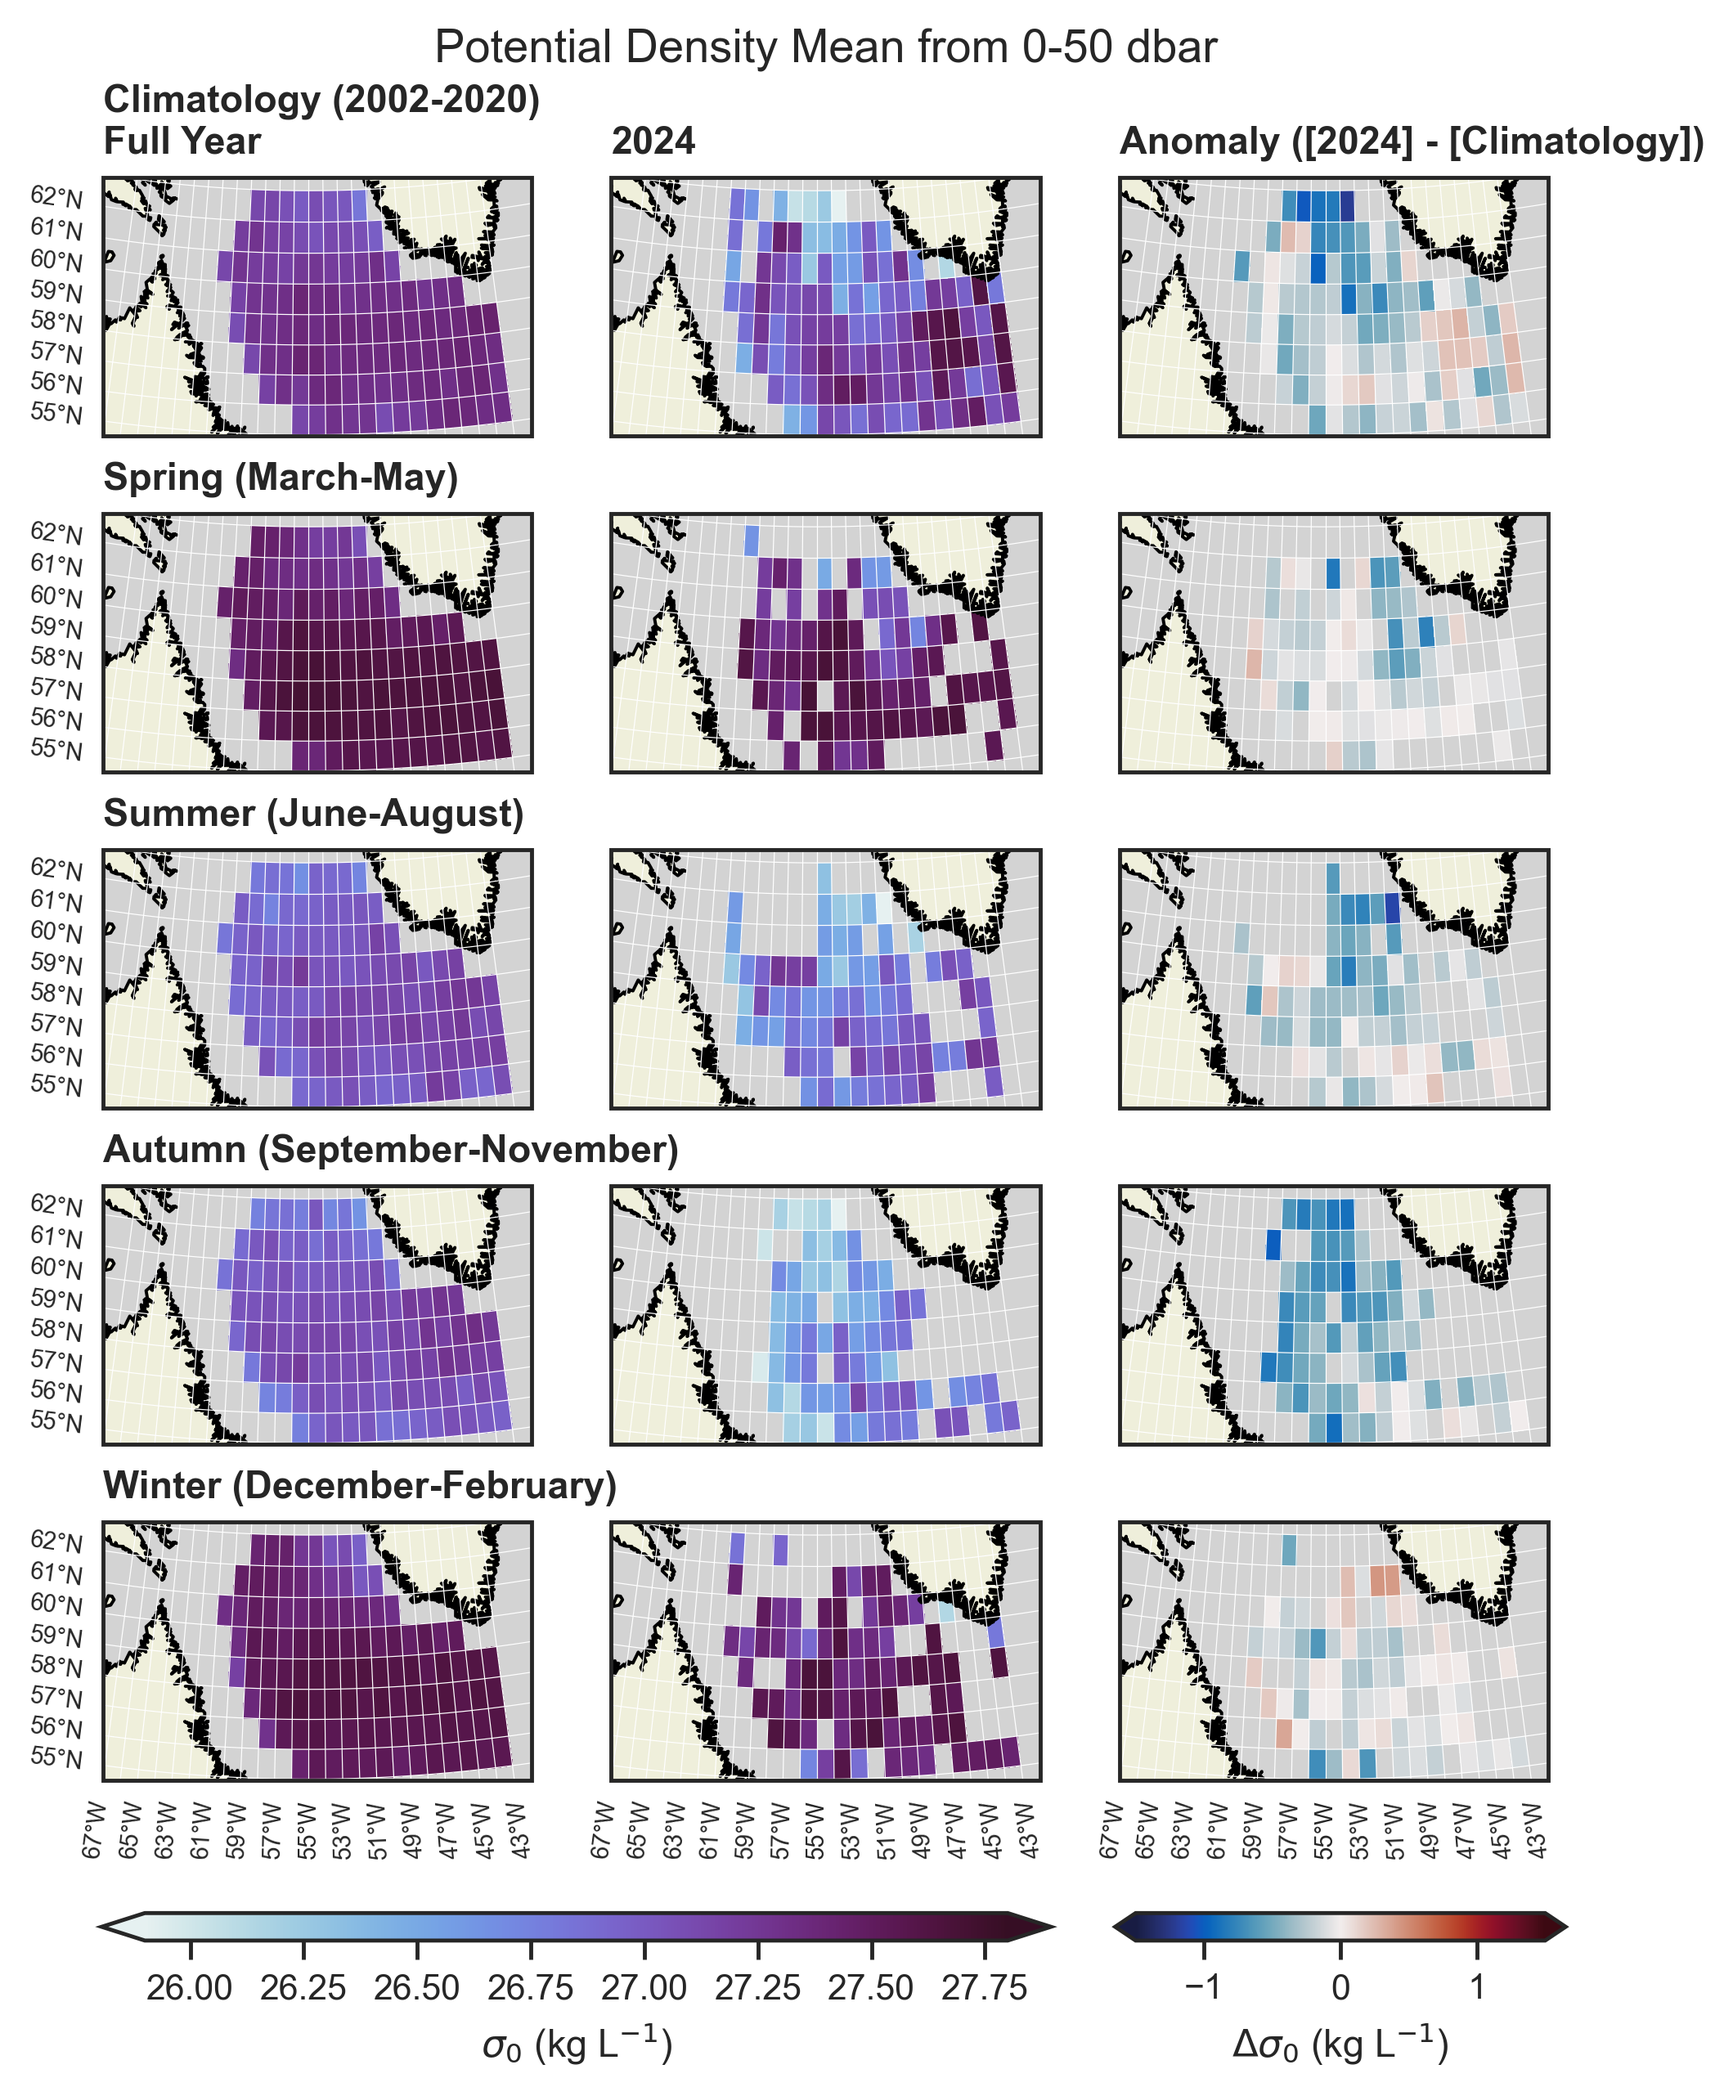
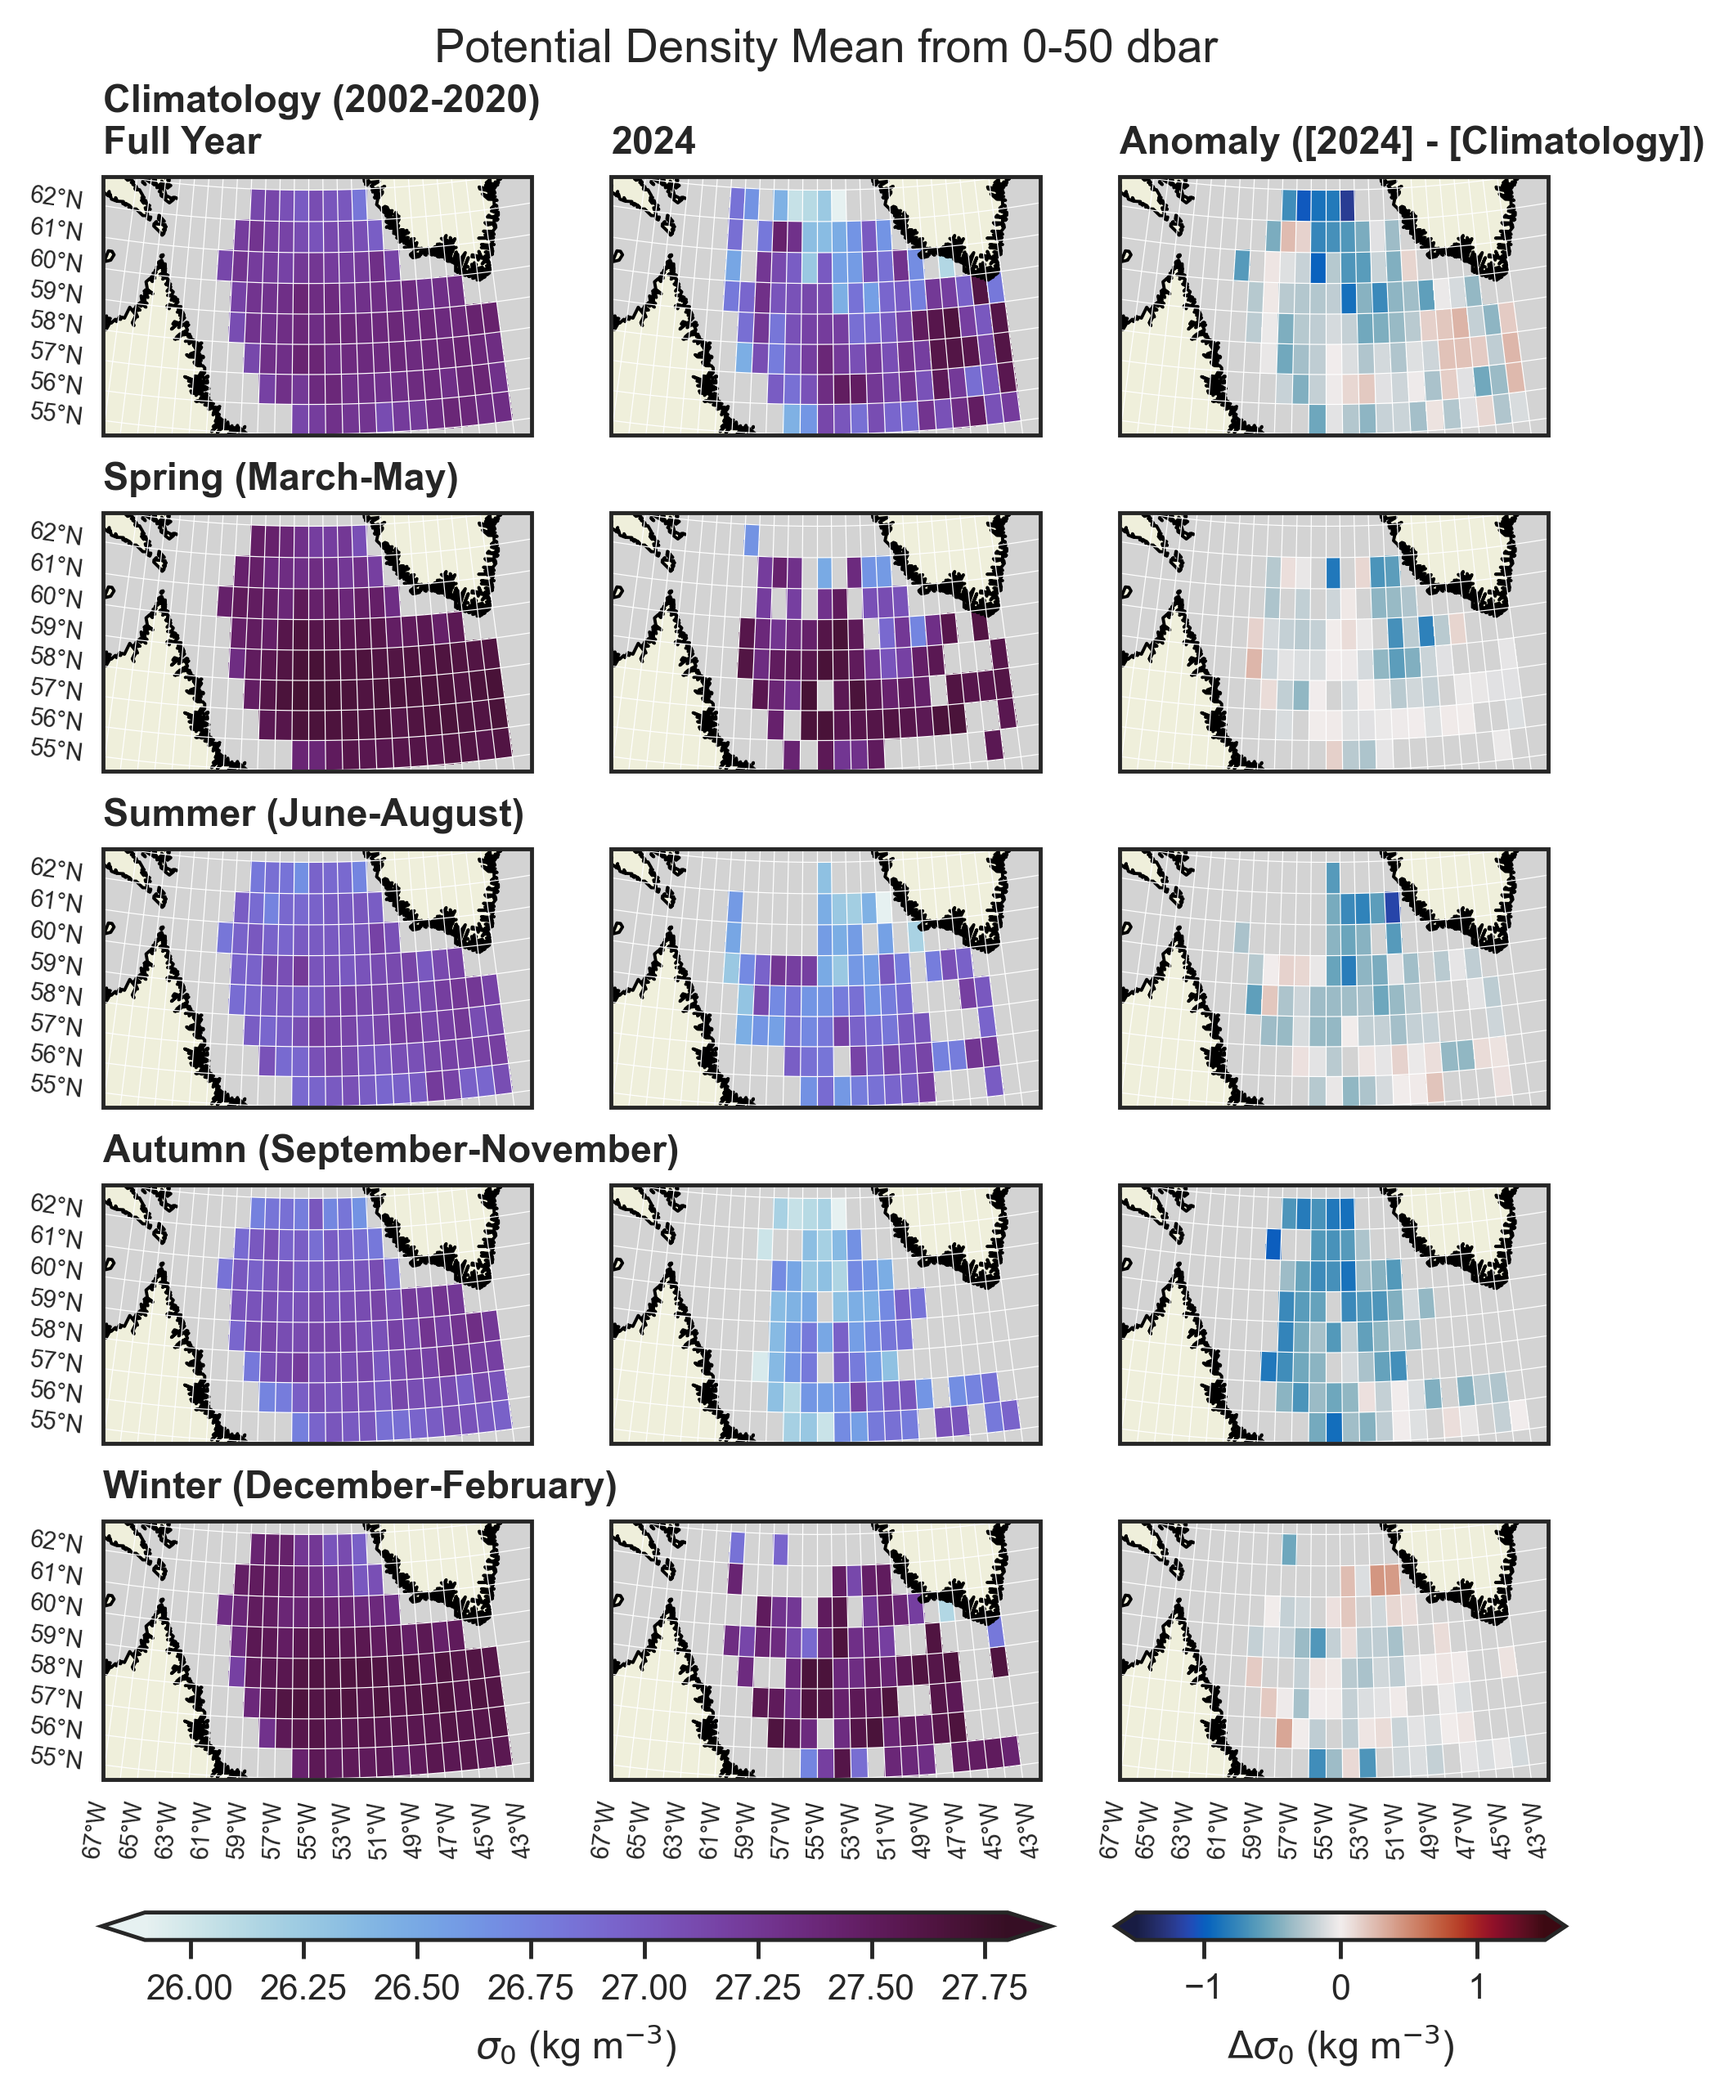
unit fix for potential density

diff --git a/analysis/argoPhysics/gridded_data.py b/analysis/argoPhysics/gridded_data.py
@@ -23,6 +23,7 @@ lab_sea = [-67, -43, 55, 62.5]
 # map extent just outside
 extent  = [-67, -42, 54.5, 63]
 
+
 # variable name list to use for plots
 phy_vars = ['TEMP', 'PSAL', 'SA', 'SIG0']
 cmaps = [cmo.cm.thermal, cmo.cm.haline, cmo.cm.haline, cmo.cm.dense]
@@ -43,10 +44,10 @@ varinfo = {
     'SA_100-500dbar':{'vmin':34.85, 'vmax':35.15, 'delta':0.105, 'unit':' (g kg$^{-1}$)', 'label':'Abs. Salinity', 'title':'Absolute Salinity'},
     'SA_500-1000dbar':{'vmin':35.00, 'vmax':35.09, 'delta':0.08, 'unit':' (g kg$^{-1}$)', 'label':'Abs. Salinity', 'title':'Absolute Salinity'},
     'SA_1000-2000dbar':{'vmin':35.035, 'vmax':35.08, 'delta':0.025, 'unit':' (g kg$^{-1}$)', 'label':'Abs. Salinity', 'title':'Absolute Salinity'},
-    'SIG0_0-50dbar':{'vmin':25.9, 'vmax':27.8, 'delta':1.5, 'unit':' (kg L$^{-1}$)', 'label':'$\sigma_0$', 'title':'Potential Density'},
-    'SIG0_100-500dbar':{'vmin':27.49, 'vmax':27.69, 'delta':0.14, 'unit':' (kg L$^{-1}$)', 'label':'$\sigma_0$', 'title':'Potential Density'},
-    'SIG0_500-1000dbar':{'vmin':27.67, 'vmax':27.74, 'delta':0.06, 'unit':' (kg L$^{-1}$)', 'label':'$\sigma_0$', 'title':'Potential Density'},
-    'SIG0_1000-2000dbar':{'vmin':27.725, 'vmax':27.775, 'delta':0.04, 'unit':' (kg L$^{-1}$)', 'label':'$\sigma_0$', 'title':'Potential Density'},
+    'SIG0_0-50dbar':{'vmin':25.9, 'vmax':27.8, 'delta':1.5, 'unit':' (kg m$^{-3}$)', 'label':'$\sigma_0$', 'title':'Potential Density'},
+    'SIG0_100-500dbar':{'vmin':27.49, 'vmax':27.69, 'delta':0.14, 'unit':' (kg m$^{-3}$)', 'label':'$\sigma_0$', 'title':'Potential Density'},
+    'SIG0_500-1000dbar':{'vmin':27.67, 'vmax':27.74, 'delta':0.06, 'unit':' (kg m$^{-3}$)', 'label':'$\sigma_0$', 'title':'Potential Density'},
+    'SIG0_1000-2000dbar':{'vmin':27.725, 'vmax':27.775, 'delta':0.04, 'unit':' (kg m$^{-3}$)', 'label':'$\sigma_0$', 'title':'Potential Density'},
 }
 
 # define grid edges
